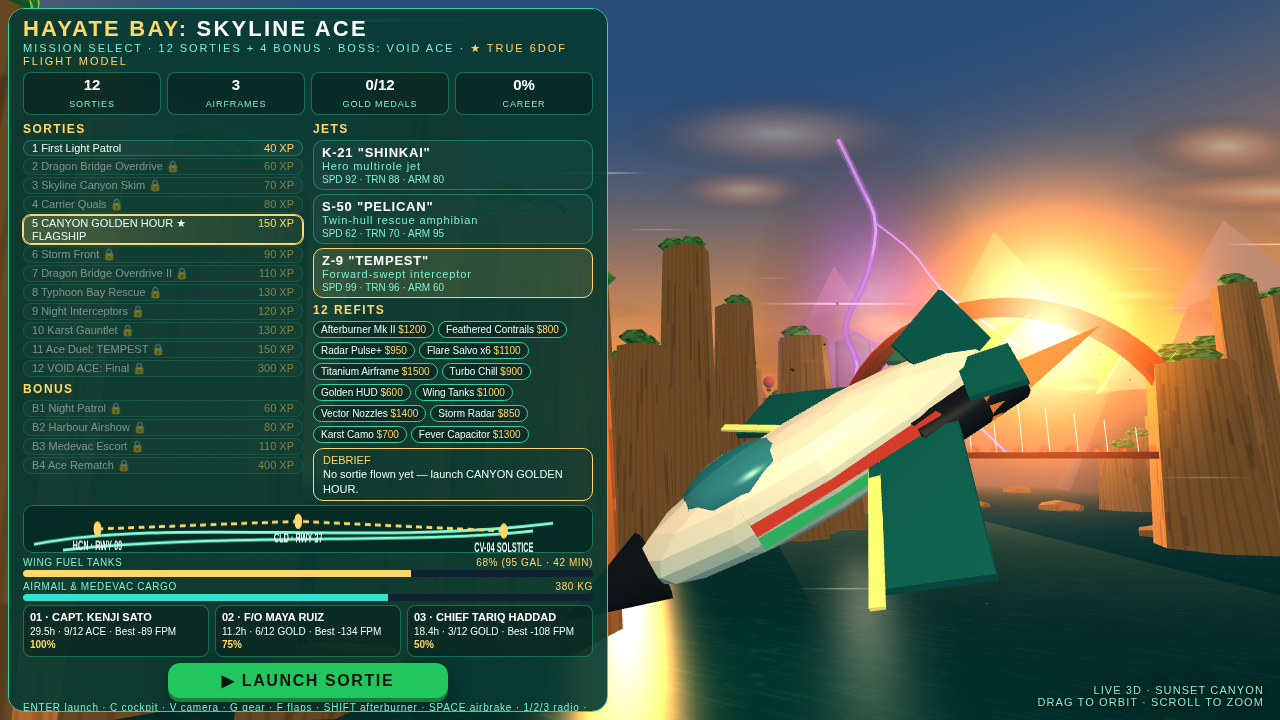
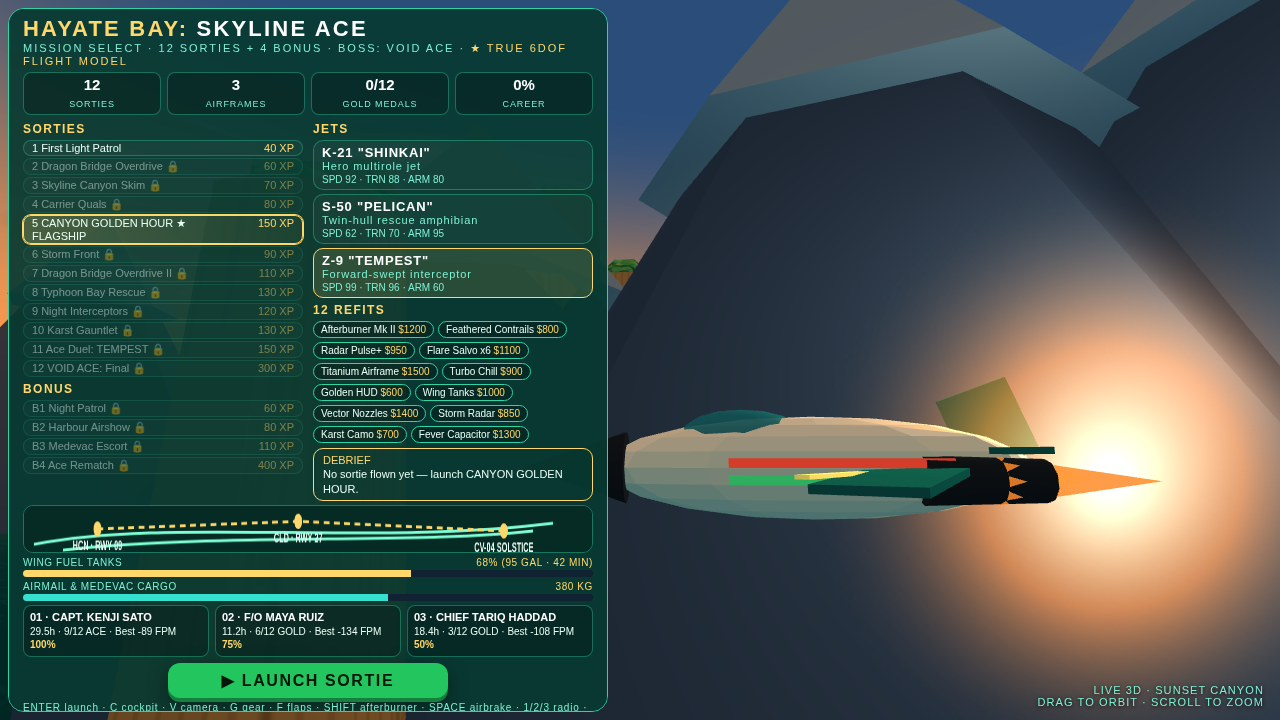
Fix jet poses in covers: level storm final, level menu jet, gentle bridge bank
Root cause: the jet mesh attitude was sign-inverted vs the sim/HUD
convention (positive S.pitch = nose-down descent, positive S.roll =
right bank). The mesh pitched nose-UP while descending and banked the
wrong way through turns, so the storm jet looked like it was climbing
steeply and the bridge jet flew a 50-degree diagonal.
- jetMesh.rotation now (-pitch, yaw, -roll) to match flight path + HUD
- storm shot: attitude hold (pitch 0.1 / yaw 0 / roll 0) — level final,
  wings level, straight down the runway centreline, gentle ~3 deg
  descent; chase pulled back 12 -> 17 so the level jet fits fully
- menu: jet level (pitch 0 / roll 0, yaw 2.05 keeps the 3/4 front,
  nose to camera-left); staging moved z 320 -> 520, south of the
  close mountain wall — the (180,220) peak's outer wall filled the
  frame and hid the jet's tail at the old spot (wall added in 172f943,
  after the old menu shot was taken)
- play: bot roll capped at ~20 deg and rings re-staged nearly
  straight (offsets -18/+12 instead of -40/+30) for a gentle bank
  toward the bridge
- carrier (cockpit) shot re-verified, file kept unchanged
SCOREs still match banners: 6,000 / 2,800 / 800. QA: 0 console
errors, 6DOF strafe/vertical verified, crash->retry, carrier +800.

diff --git a/game/src/main.js b/game/src/main.js
@@ -60,7 +60,7 @@ function init() {
   world = new World(scene);
   setLoad(45, 'Painting the sunset…');
   buildParticles(); buildRain(); buildTrail(); buildSmoke();
-  menuJet = world.buildJet(S.jetId); menuJet.position.set(6, 74, 320); menuJet.scale.set(3.1,3.1,3.1); scene.add(menuJet); decorateMenuJet();
+  menuJet = world.buildJet(S.jetId); menuJet.position.set(6, 74, 520); menuJet.scale.set(3.1,3.1,3.1); scene.add(menuJet); decorateMenuJet(); // menu staging sits at z 520, SOUTH of the close mountain wall (z 90-330) — the old z 320 put the jet inside the wall cones and the (180,220) peak's outer wall filled the frame and hid the jet's tail
   // warm fill light from the camera side so the menu jet's flank reads (sun is behind it)
   menuLight = new T.PointLight(0xffd9a0, 2.2, 260); menuLight.position.set(70, 120, 430); scene.add(menuLight);
   // hot orange rim light from behind-left so the jet's far edges glow against the sunset
@@ -242,7 +242,7 @@ function toggleRefit(r, btn) {
 }
 function selectJet(id) {
   S.jetId = id; save.jet = id; persist();
-  scene.remove(menuJet); menuJet = world.buildJet(id); menuJet.position.set(6, 74, 320); menuJet.scale.set(3.1,3.1,3.1); scene.add(menuJet); decorateMenuJet();
+  scene.remove(menuJet); menuJet = world.buildJet(id); menuJet.position.set(6, 74, 520); menuJet.scale.set(3.1,3.1,3.1); scene.add(menuJet); decorateMenuJet();
   scene.remove(jetMesh); jetMesh = world.buildJet(id); jetMesh.visible = false; jetMesh.scale.set(1.25, 1.25, 1.25); scene.add(jetMesh);
   $('jetName').textContent = JETS[id].short;
 }
@@ -489,7 +489,8 @@ function step(dt) {
   if (AUTOPLAY && S.mode === 'flying' && !S.crashed) { const a = botInput(); pitchIn = a.pitch; yawIn = a.yaw; rollIn = a.roll; }
   if (SHOT && S.mode === 'flying' && !S.crashed) {
     if (SHOT === 'carrier') { pitchIn = 0; yawIn = 0; rollIn = 0; } // carrier shot: hold the staged diagonal approach (yaw 0.7) — any bank/yaw input turns the jet away from the deck before the still
-    else { const a = botInput(); pitchIn = a.pitch; yawIn = a.yaw; rollIn = clamp(a.roll, -0.8, 0.8); } // screenshot staging: bot steers to the rings (real banking, real ring passes + score)
+    else if (SHOT === 'storm') { pitchIn = 0.1; yawIn = 0; rollIn = 0; } // storm cover: LEVEL final like ref 1 — wings level, straight down the runway centreline, gentle ~3° descent (pitch ≈ 0.055). No bot steering: the bot chased the carrier and pitched the jet nose-up 25° while diving, which is what made the cover jet look like it was climbing steeply.
+    else { const a = botInput(); pitchIn = a.pitch; yawIn = a.yaw; rollIn = clamp(a.roll, -0.35, 0.35); } // play shot: bot steers to the rings, but the bank is capped at ~20° — a gentle bank toward the bridge like ref 3, never the 50° diagonal of the old take
   }
   S.pitchT = lerp(S.pitchT, pitchIn * 0.55, 1 - Math.exp(-8 * dt));
   S.yawT = lerp(S.yawT, yawIn * jet.turn * turnBoost * 0.55, 1 - Math.exp(-8 * dt));
@@ -568,9 +569,14 @@ function step(dt) {
   }
   // particles update
   updateParticles(dt);
-  // jet mesh transform
+  // jet mesh transform — attitude sign: positive S.pitch is a nose-DOWN descent
+  // (flight path uses sin(-pitch); the HUD att ball agrees), and positive S.roll
+  // is a RIGHT bank (HUD att ball rotates clockwise). The mesh must match, so
+  // both signs are flipped here: before this fix the jet visibly pitched nose-UP
+  // while descending and banked the wrong way through every turn — the "weird
+  // diagonal pose" in the storm and bridge covers.
   jetMesh.position.copy(S.pos);
-  jetMesh.rotation.set(S.pitch, S.yaw, S.roll, 'YXZ');
+  jetMesh.rotation.set(-S.pitch, S.yaw, -S.roll, 'YXZ');
   jetMesh.rotation.order = 'YXZ';
   const flames = []; jetMesh.traverse(o => { if (o.name === 'flame') flames.push(o); });
   for (const f of flames) { f.visible = S.throttle > 0.25; const sc = afterburner ? 1.8 : 0.7 + S.throttle * 0.5; f.scale.set(sc, sc, sc); }
@@ -998,11 +1004,11 @@ function drawRadar() {
 // ---------- camera + loop ----------
 function updateCamera(dt) {
   if (S.mode === 'menu') {
-    // fixed hero angle: the jet never drifts into a rear view — 3/4 front, nose down-left, wings spread, big on the right
+    // fixed hero angle: the jet never drifts into a rear view — 3/4 front, nose toward camera-left, wings LEVEL, big on the right (ref 2: the plane is parked level on display, not diving diagonally — the old pitch -0.55 / roll 0.45 made it look nose-down)
     const r = 64 + S.orbitDrag;
-    camera.position.set(Math.sin(S.menuAngle) * r, 76 + Math.sin(S.time * 0.2) * 4, 320 + Math.cos(S.menuAngle) * r);
-    camera.lookAt(-14, 88, 320);
-    menuJet.rotation.set(-0.55, 2.05, 0.45 + Math.sin(S.time * 0.5) * 0.04, 'YXZ'); // nose down-left, tail up-right, diagonal like the reference
+    camera.position.set(Math.sin(S.menuAngle) * r, 76 + Math.sin(S.time * 0.2) * 4, 520 + Math.cos(S.menuAngle) * r);
+    camera.lookAt(-14, 88, 520);
+    menuJet.rotation.set(0, 2.05, 0, 'YXZ'); // level 3/4 front: pitch 0, roll 0, yaw 2.05 puts the nose toward camera-left with the wings horizontal
     menuJet.position.y = 74 + Math.sin(S.time * 0.8) * 3;
     // afterburner flicker
     if (menuJet.userData.abGlow) { const f = 1 + Math.sin(S.time * 13) * 0.12 + Math.sin(S.time * 29) * 0.06; menuJet.userData.abGlow.scale.set(17 * f, 17 * f, 1); }
@@ -1079,8 +1085,9 @@ function setupShot(shot) {
       S.gear = true; S.flaps = true; S.hook = true; syncGear();
       // storm cover: clear the approach — the rings sit between the camera and the hero bolt and the bot
       // flies into them, so they end up huge in the centre of the frame and hide the bolt. With the rings
-      // gone and the stage set to the carrier landing, the bot flies straight down the approach line
-      // toward the carrier — the bolt has a clear line of sight and the jet stays low on final.
+      // gone and the stage set to the carrier landing, the jet holds a LEVEL final (attitude hold in
+      // step(): pitch 0.1 / yaw 0 / roll 0) straight down the approach line toward the carrier — wings
+      // level, gentle descent, like ref 1 — and the bolt has a clear line of sight.
       for (const r of [...world.rings]) scene.remove(r);
       world.rings.length = 0;
       S.stageIdx = 2; S.stageDone = 0; $('hudStage').textContent = 'STAGE 3/3'; renderObjectives(); // panel now shows STAGE 3/3 + the carrier-landing objective
@@ -1092,7 +1099,7 @@ function setupShot(shot) {
       // Hero sits at z 560 — in FRONT of the nearest karst pillar row (z 500), which occluded it at z 450 —
       // and TALL (topY 300, 12 segments) so it spans from above the top edge of the frame down behind the jet,
       // like the CALDERA reference bolt. Chase camera pulled in (12 vs 16) so the jet reads bigger on final.
-      S.chaseDist = 12;
+      S.chaseDist = 17; // pulled back from 12: with the jet flying LEVEL the tail sat right against the bottom bar and cropped — 17 frames the whole jet with the lit runway ahead
       world.strikeLightning(180, 560, true, 300); // ONE hero bolt only — companions read as a second competing bolt and broke the reference's single-bolt look
       // Kill the strike's flash light: a HELD hero bolt leaves the white point light on forever, and it
       // bleaches the whole storm scene pale (bright turquoise sea, tan pillars, washed-out sky) — verified
@@ -1122,10 +1129,12 @@ function setupShot(shot) {
       // ref 4: big banking jet under the red Dragon Bridge at sunset, glowing ring ahead bursting, +2,800 banner
       selectSortie(5); launch(true); S.pos.set(0, 88, -100); S.yaw = 0; S.speed = 200; S.fever = 82; S.feverMult = 8;
       S.dialogueQueue = [{ name: 'Capt. Kenji Sato', text: RADIO.kenji[0] }]; S.dlgTimer = 0;
-      // rings re-staged under/through the bridge so the bot banks toward the span, not away from it
+      // rings re-staged nearly straight ahead under/through the bridge so the bot
+      // flies a gentle S toward the span with a small bank, not a hard zigzag —
+      // the old ±40 offsets made it bank ~50° and dive diagonally across the frame
       if (world.rings[0]) world.rings[0].position.set(0, 85, -300);
-      if (world.rings[1]) world.rings[1].position.set(-40, 90, -480);
-      if (world.rings[2]) world.rings[2].position.set(30, 80, -660);
+      if (world.rings[1]) world.rings[1].position.set(-18, 88, -480);
+      if (world.rings[2]) world.rings[2].position.set(12, 84, -660);
       addScore(350, 'JETSTREAM FEVER! ×8'); // real award: 350 × 8 = +2,800 — banner and SCORE now agree
       S.scoreShown = S.scoreTarget; S.shotFreeze = true; // staged shot: show the awarded score at once (real play still counts up)
       setInterval(() => { if (S.mode === 'flying' && !S.crashed) showBanner('★ JETSTREAM FEVER! ×8 · +2,800 PTS'); }, 1700);
